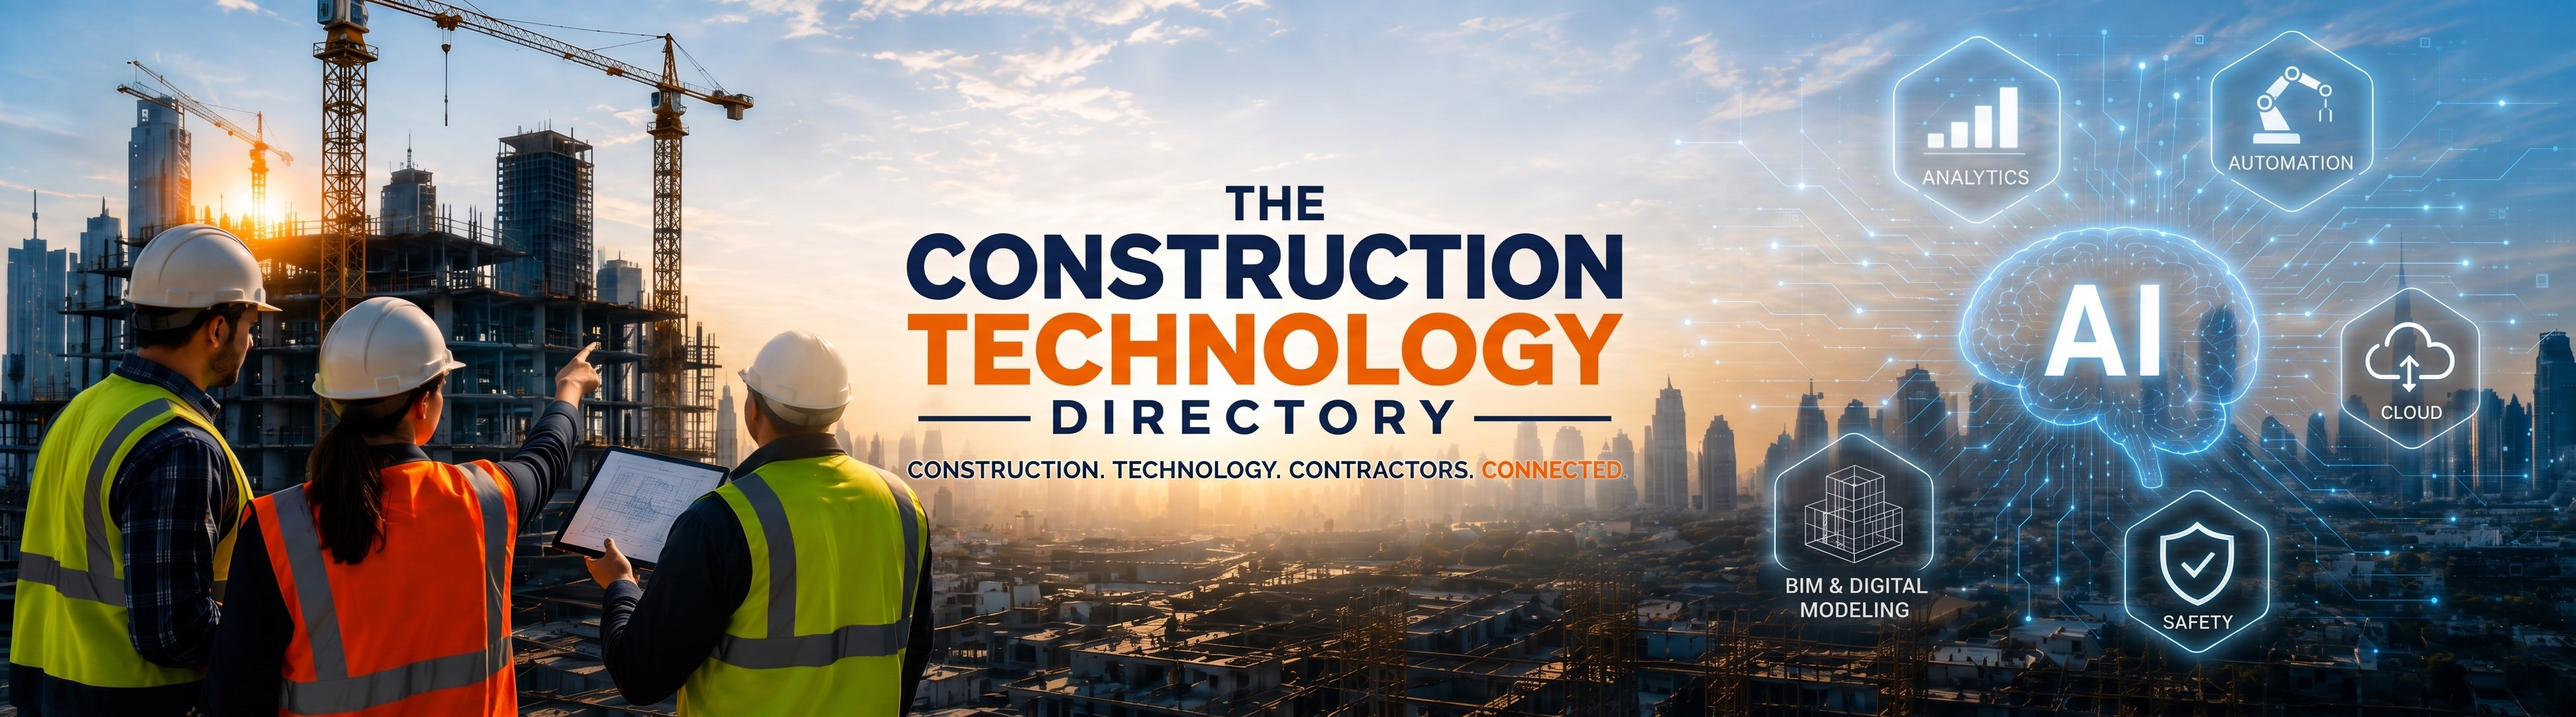
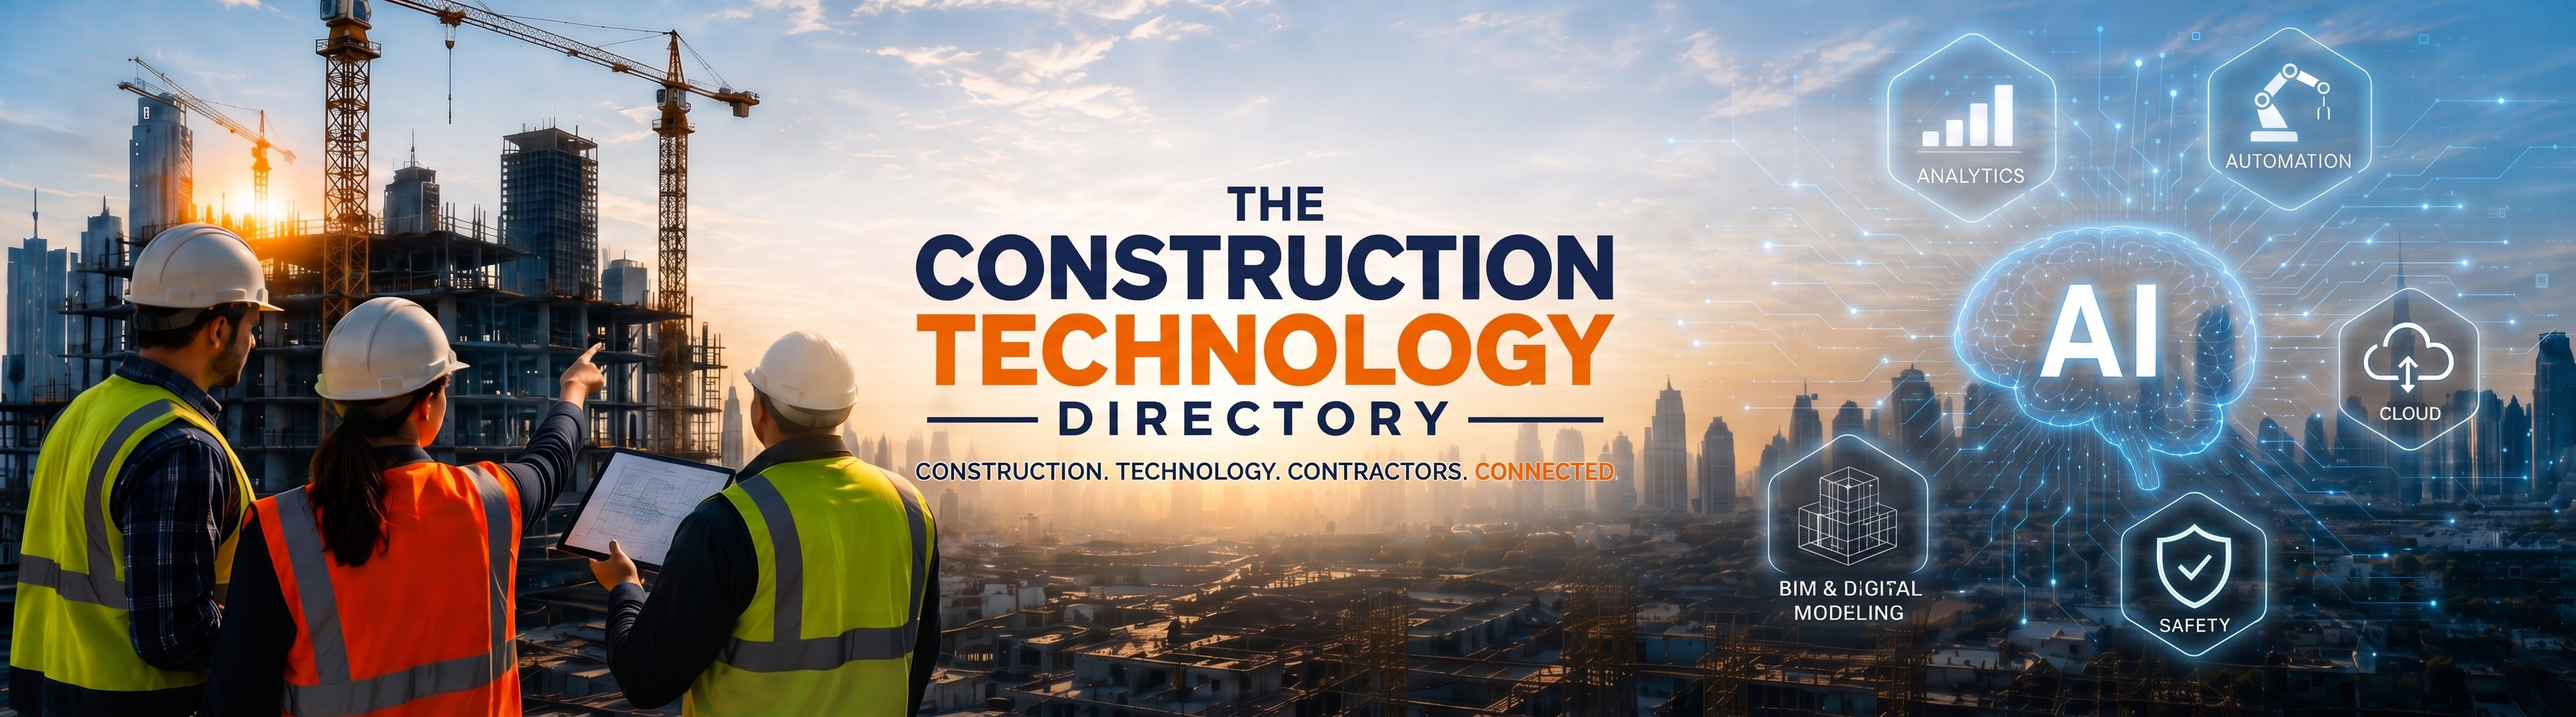
Update hero image to the revised artwork
Client-supplied replacement (4.jpg). Same 3904x1088 / 3.59:1 as the
previous one, so no CSS change was needed - the object-cover sizing
and the center-60% crop bias from 46c6f1a carry over unchanged. Only
the file and its cache-bust version move.

The revision mainly addresses the "still blue blob under AI icon"
note: the brain graphic is now a translucent outline with the city
skyline reading through it instead of a solid fill.

Re-encoded at JPEG q85, 600KB (down from the 2.6MB source).

Verified: 1920x1080 no crop with 88px icons, 1896x876 16.4% crop with
52px icons, mobile unchanged - zero side gap at every size, all five
baked-in labels (ANALYTICS, AUTOMATION, CLOUD, BIM & DIGITAL
MODELING, SAFETY) intact through the crop, fold exact, no horizontal
scroll, no console errors.

diff --git a/index.html b/index.html
@@ -175,7 +175,7 @@
   <section class="hero-band relative w-full min-w-0 overflow-hidden bg-ctd-navy max-lg:max-h-none">
     <h1 class="sr-only">The Construction Technology Directory</h1>
     <h2 class="sr-only">Construction. Technology. Contractors. Connected.</h2>
-    <img src="assets/ctd/hero_image.jpg?v=202609020205" fetchpriority="high"
+    <img src="assets/ctd/hero_image.jpg?v=202609020240" fetchpriority="high"
          alt="The Construction Technology Directory — construction professionals reviewing plans on site, with AI, analytics, automation, cloud, safety and BIM technology nodes over a city skyline."
          class="h-full w-full select-none object-cover" draggable="false">
   </section>
